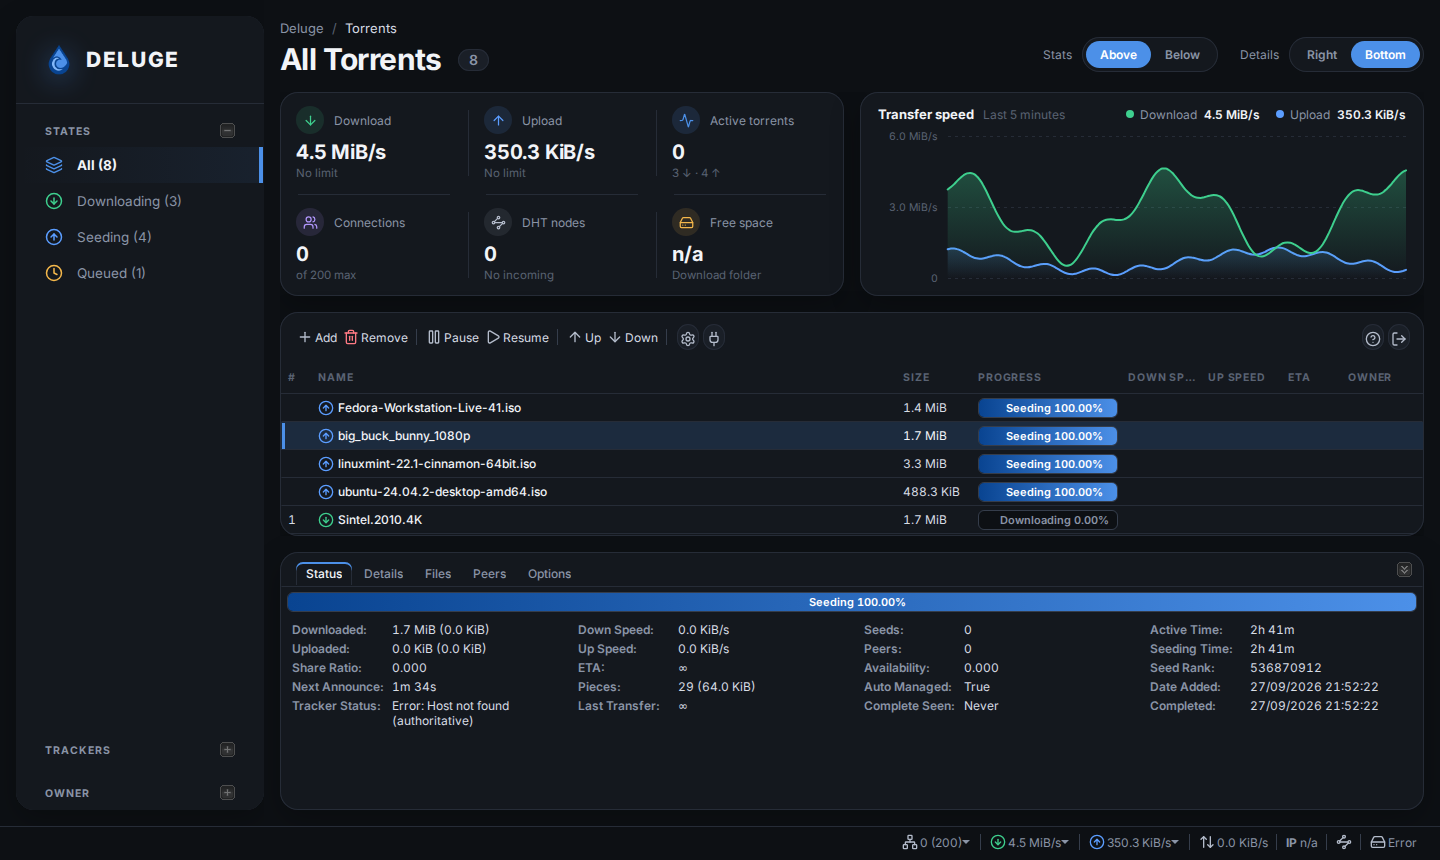
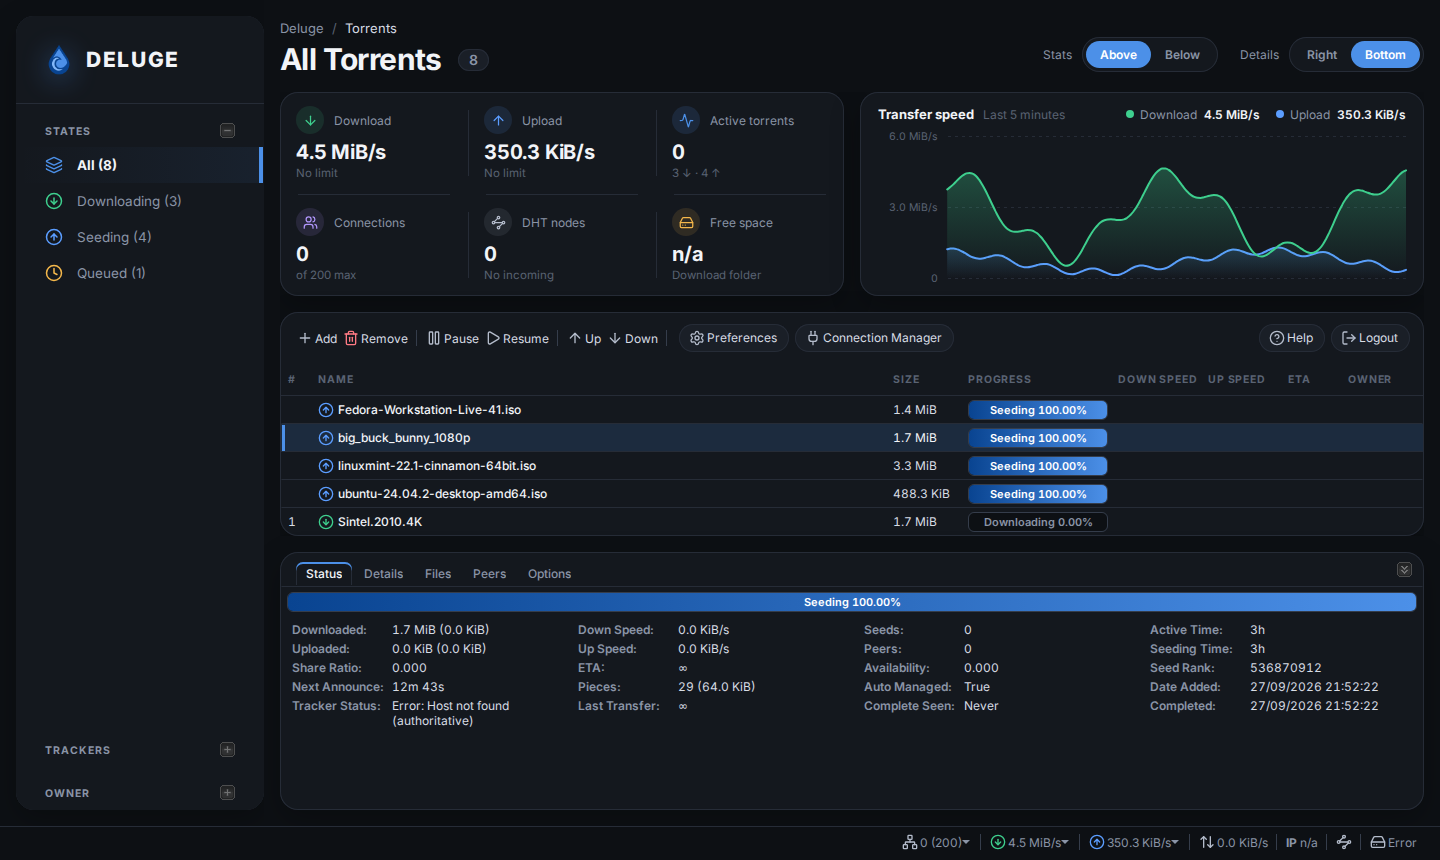
Dashboard: label the Preferences, Connection Manager, Help and Logout buttons
Show them as pill buttons with icon and label when the toolbar has
room, and fall back to round icon buttons when it doesn't (checked on
every toolbar resize). Also fix the round buttons: Ext's corner cells
made them 22x26 ovals with the icon off-centre; they're now 28x28
circles with the icon centred.

diff --git a/theme/darkhand/dashboard.css b/theme/darkhand/dashboard.css
@@ -632,12 +632,14 @@ html body.dh-dashboard,
     display: none;
 }
 
-/* Preferences, Connection Manager, Help and Logout as round icon buttons */
+/* Preferences, Connection Manager, Help and Logout as pill buttons with a
+   label; when the toolbar is too narrow for the labels (the plugin adds
+   dh-toolbar-compact), round icon buttons. */
 .dh-dashboard #preferences,
 .dh-dashboard #connectionman,
 .dh-dashboard #help,
 .dh-dashboard #logout {
-    margin-left: 4px;
+    margin-left: 6px;
     border-radius: 999px;
     background: var(--dh-bg-2);
     box-shadow: inset 0 0 0 1px var(--dh-border);
@@ -650,19 +652,57 @@ html body.dh-dashboard,
     background: var(--dh-bg-3);
 }
 
+/* Drop Ext's corner cells so the button is just its middle cell */
+.dh-dashboard #preferences tr:first-child,
+.dh-dashboard #connectionman tr:first-child,
+.dh-dashboard #help tr:first-child,
+.dh-dashboard #logout tr:first-child,
+.dh-dashboard #preferences tr:last-child,
+.dh-dashboard #connectionman tr:last-child,
+.dh-dashboard #help tr:last-child,
+.dh-dashboard #logout tr:last-child,
+.dh-dashboard #preferences .x-btn-ml,
+.dh-dashboard #connectionman .x-btn-ml,
+.dh-dashboard #help .x-btn-ml,
+.dh-dashboard #logout .x-btn-ml,
+.dh-dashboard #preferences .x-btn-mr,
+.dh-dashboard #connectionman .x-btn-mr,
+.dh-dashboard #help .x-btn-mr,
+.dh-dashboard #logout .x-btn-mr {
+    display: none;
+}
+
 .dh-dashboard #preferences .x-btn-mc,
 .dh-dashboard #connectionman .x-btn-mc,
 .dh-dashboard #help .x-btn-mc,
 .dh-dashboard #logout .x-btn-mc {
-    padding: 4px 3px;
+    padding: 5px 12px 5px 10px !important; /* beats Ext's .x-btn td */
 }
 
 .dh-dashboard #preferences button,
 .dh-dashboard #connectionman button,
 .dh-dashboard #help button,
 .dh-dashboard #logout button {
+    height: 18px;
+    line-height: 18px;
+    background-position: 0 center !important;
+}
+
+.dh-dashboard .dh-toolbar-compact #preferences .x-btn-mc,
+.dh-dashboard .dh-toolbar-compact #connectionman .x-btn-mc,
+.dh-dashboard .dh-toolbar-compact #help .x-btn-mc,
+.dh-dashboard .dh-toolbar-compact #logout .x-btn-mc {
+    padding: 6px !important;
+}
+
+.dh-dashboard .dh-toolbar-compact #preferences button,
+.dh-dashboard .dh-toolbar-compact #connectionman button,
+.dh-dashboard .dh-toolbar-compact #help button,
+.dh-dashboard .dh-toolbar-compact #logout button {
+    display: block;
     width: 16px;
-    padding-left: 16px !important;
+    height: 16px;
+    padding: 0 !important;
     font-size: 0;
     background-position: center !important;
 }

diff --git a/plugin/deluge_darkhand/data/darkhand.js b/plugin/deluge_darkhand/data/darkhand.js
@@ -869,9 +869,21 @@ Ext.ns('Deluge.plugins.darkhand');
         };
     }
 
-    // Toolbar buttons shown as round icon buttons; keep their labels as
-    // tooltips.
+    // Toolbar buttons shown as labelled pills, or round icon buttons when
+    // the labels don't fit; keep their labels as tooltips.
     var ICON_BUTTONS = ['preferences', 'connectionman', 'help', 'logout'];
+
+    // Show the pills' labels only while the whole toolbar fits
+    function fitToolbar() {
+        var card = Ext.get('dh-torrents-card');
+        var ct = card && card.child('.x-toolbar-ct');
+        var left = ct && ct.child('.x-toolbar-left > table');
+        var right = ct && ct.child('.x-toolbar-right > table');
+        if (!left || !right) return;
+        card.removeClass('dh-toolbar-compact');
+        var needed = left.dom.offsetWidth + right.dom.offsetWidth + 16;
+        card[needed > ct.dom.offsetWidth ? 'addClass' : 'removeClass']('dh-toolbar-compact');
+    }
 
     function wireUp(mode, details, box) {
         setUpColumnStretch(deluge.torrents);
@@ -906,6 +918,11 @@ Ext.ns('Deluge.plugins.darkhand');
             var btn = deluge.toolbar.items.get(id);
             if (btn && btn.setTooltip) btn.setTooltip(btn.text);
         });
+        var toolbar = deluge.toolbar.getEl();
+        if (toolbar && window.ResizeObserver) {
+            new ResizeObserver(fitToolbar).observe(toolbar.dom);
+        }
+        if (document.fonts && document.fonts.ready) document.fonts.ready.then(fitToolbar);
 
         // The Stats and Details switches in the header. The layout is built
         // once at startup, so a change reloads the page.
